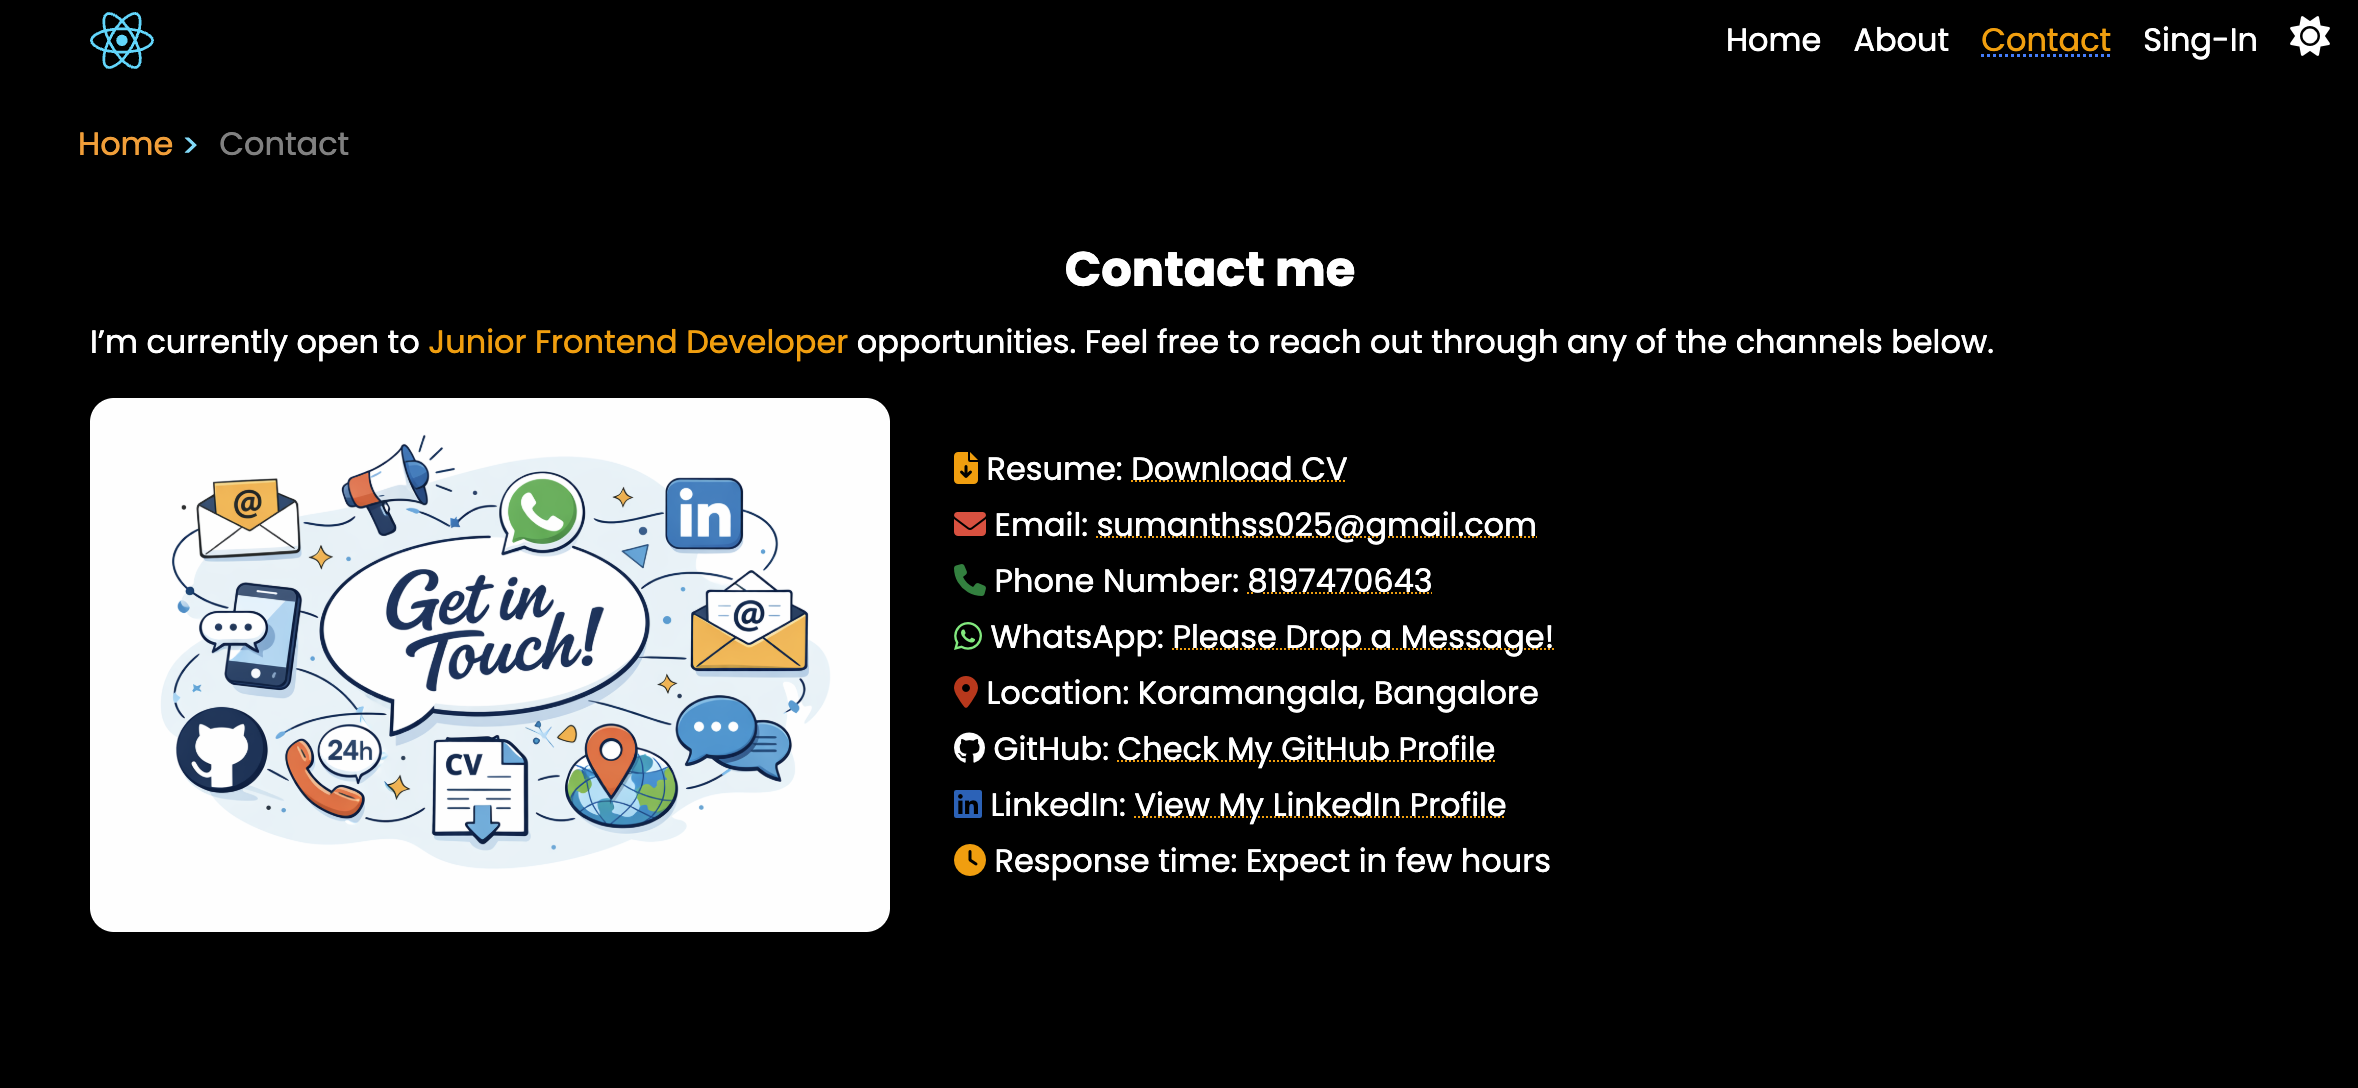
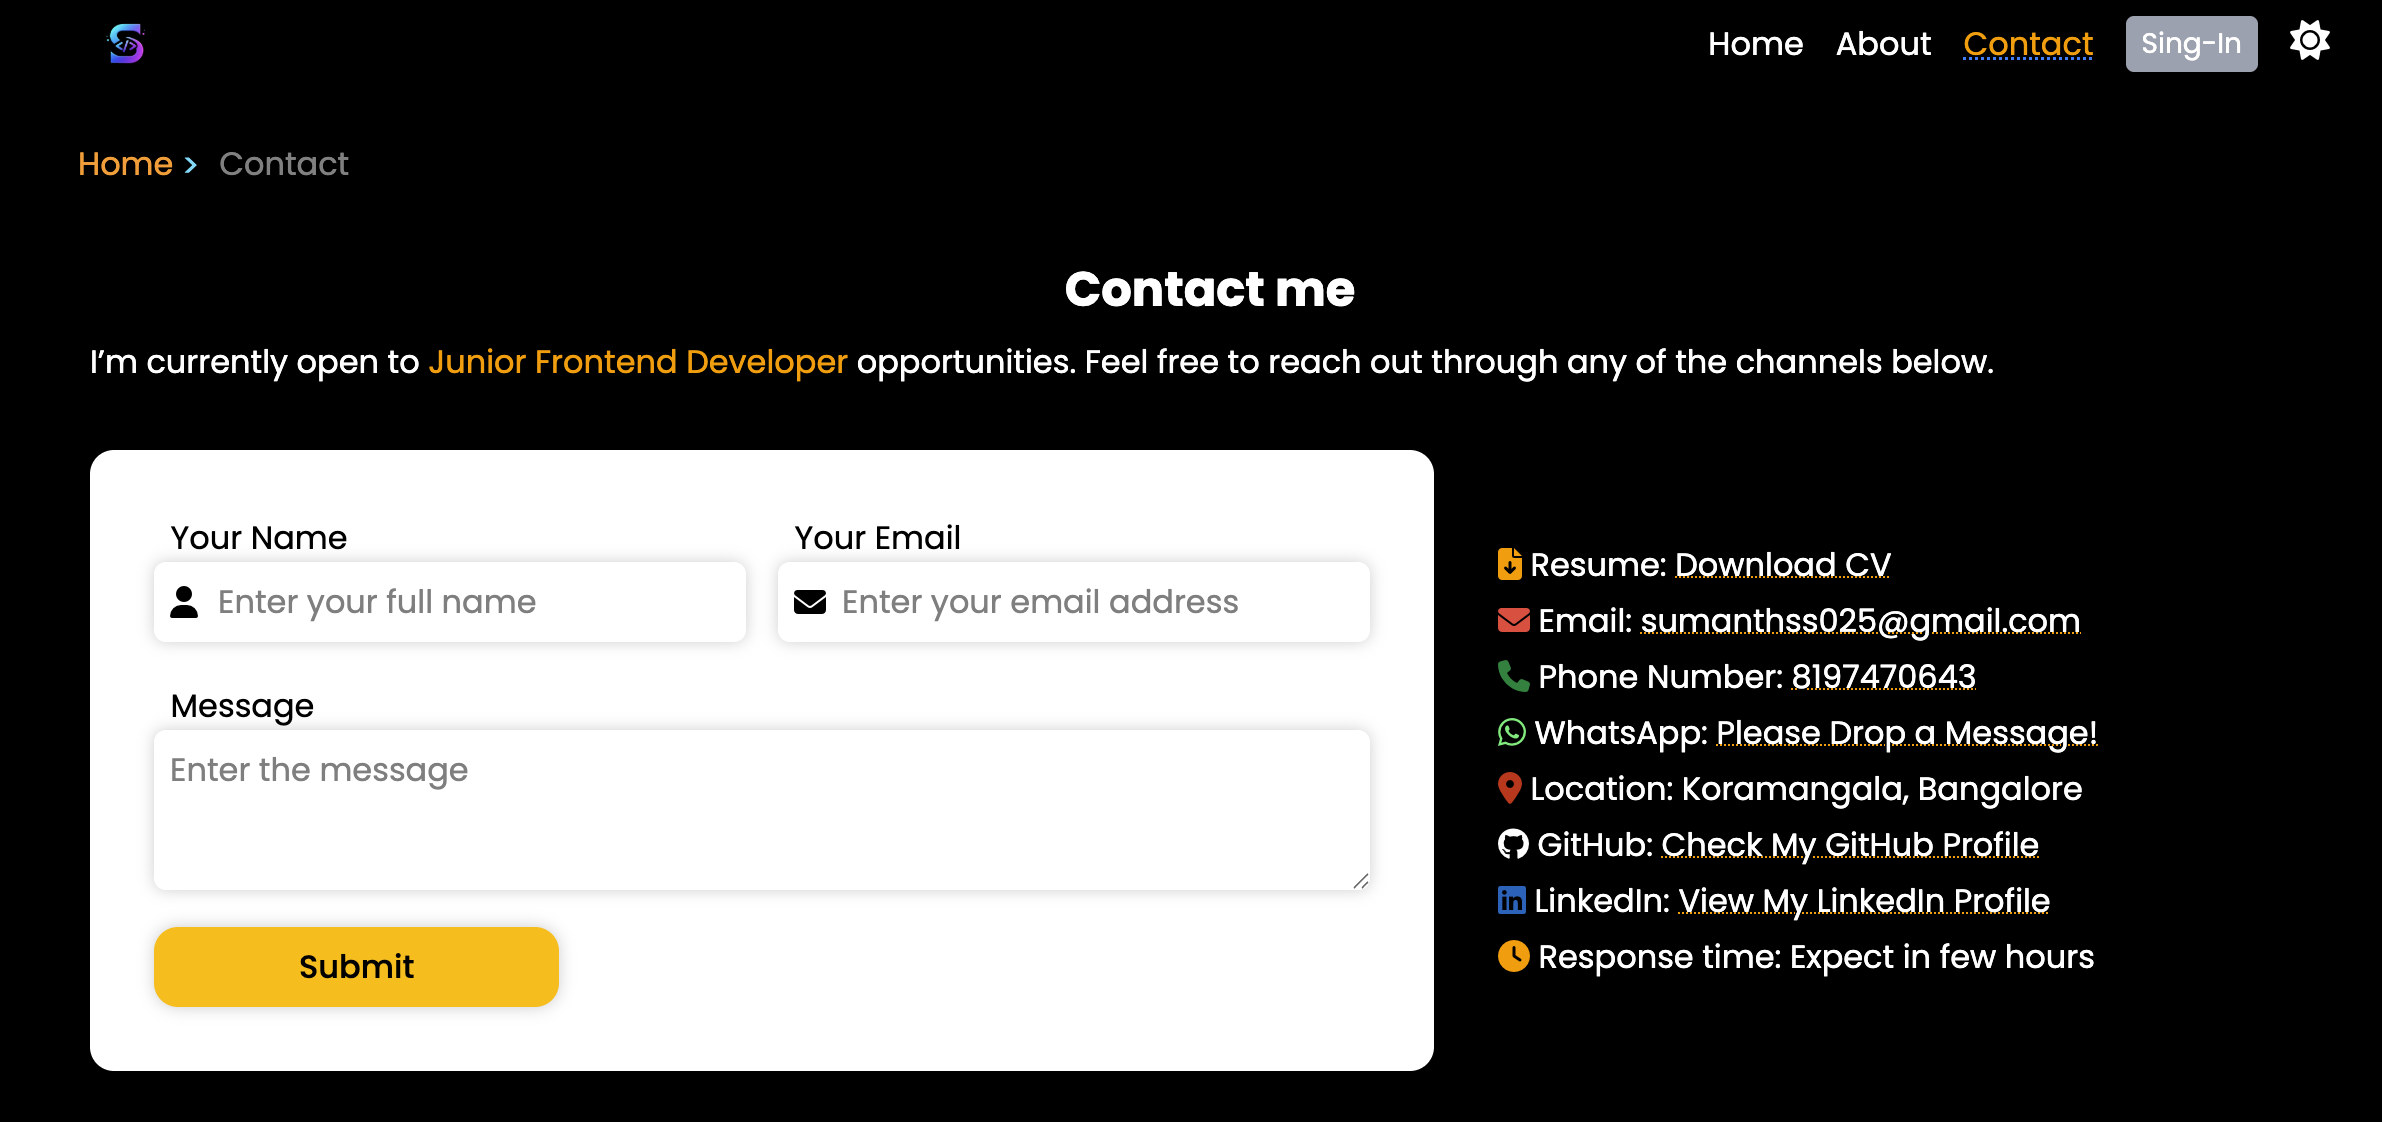
Updated OG tags and rating component

diff --git a/index.html b/index.html
@@ -18,30 +18,18 @@
       content="Frontend Developer specializing in React & JavaScript. I build scalable web applications with a strong focus on SEO optimization, and user experience."
     />
     <link rel="canonical" href="https://sumanth-s-s-portfolio.netlify.app/" />
-    <meta
-      property="og:description"
-      content="Frontend Developer specializing in React & JavaScript. I build scalable web applications with a strong focus on SEO optimization, and user experience."
-    />
-    <meta property="og:url" content="https://sumanth-s-s-portfolio.netlify.app/" />
-    <meta property="og:type" content="website" />
-    <meta property="og:site_name" content="Sumanth SS Portfolio: React.js and JavaScript" />
-    <meta property="og:locale" content="en-IN" />
-    <meta
-      property="og:image"
-      content="/src/assets/hero-image.png"
-    />
-    <meta property="og:image:width" content="640 " />
-    <meta property="og:image:height" content="640" />
-    <meta name="twitter:card" content="summary_large_image" />
-    <meta name="twitter:title" content="Sumanth SS Portfolio: React.js and JavaScript" />
-    <meta
-      name="twitter:description"
-      content="Frontend Developer specializing in React & JavaScript. I build scalable web applications with a strong focus on SEO optimization, and user experience."
-    />
-    <meta
-      name="twitter:image"
-      content="/src/assets/hero-image.png"
-    />
+   <meta property="og:url" content="https://sumanth-s-s-portfolio.netlify.app/">
+<meta property="og:type" content="website">
+<meta property="og:title" content="Sumanth SS Portfolio: React.js and JavaScript">
+<meta property="og:description" content="Frontend Developer specializing in React & JavaScript. I build scalable web applications with a strong focus on SEO optimization, and user experience.">
+<meta property="og:image" content="/assets/hero-section-image.png">
+
+<meta name="twitter:card" content="summary_large_image">
+<meta property="twitter:domain" content="sumanth-s-s-portfolio.netlify.app">
+<meta property="twitter:url" content="https://sumanth-s-s-portfolio.netlify.app/">
+<meta name="twitter:title" content="Sumanth SS Portfolio: React.js and JavaScript">
+<meta name="twitter:description" content="Frontend Developer specializing in React & JavaScript. I build scalable web applications with a strong focus on SEO optimization, and user experience.">
+<meta name="twitter:image" content="/assets/hero-section-image.png">
   </head>
   <body>
     <div id="root"></div>

diff --git a/src/components/Accordion.jsx b/src/components/Accordion.jsx
@@ -2,23 +2,12 @@ import React, { useState } from "react";
 import { useTheme } from "../hooks/useTheme";
 import { useOutletContext } from "react-router-dom";
 
-export default function Accordion({ faqHeading, children }) {
+export default function Accordion({ children }) {
   // const [accordion, isOpenAccordion] = useState(false)
   const [darkMode] = useTheme();
 
   return (
     <div className="w-full max-w-6xl py-4">
-      <h2 className="text-2xl font-bold text-center py-4">{faqHeading}</h2>
-      {/* <div className={`rounded-lg my-4 p-4 relative  ${darkMode ? 'darkShadow' : "applyShadow"}`}>
-            <h3 onClick={() => {
-              isOpenAccordion(!accordion)
-            }} className={`hover:text-amber-500 text-lg flex justify-between items-center cursor-pointer transition-all duration-500 ease-in-out ${accordion ? 'text-amber-500' : ''}`}>{passQuestion} <i className={`fa-solid fa-angle-down transition duration-500 ease-in-out ${accordion ? 'transform rotate-180 text-amber-500': 'rotate-0'}`}></i></h3>
-            <div className={`transition-all duration-500 ease-in-out overflow-hidden ${
-            accordion ? "max-h-screen opacity-100" : "max-h-0 opacity-0"
-          }`}>
-              <p className={`text-sm`}>{passAnswer}</p>
-            </div>
-        </div> */}
       {children}
     </div>
   );

diff --git a/src/components/ratingElement/RatingComponent.jsx b/src/components/ratingElement/RatingComponent.jsx
@@ -3,8 +3,8 @@ import React, { useState } from 'react'
 const RatingComponent = () => {
     let starCounts = 5
     const [hoverValue, setHoverValue] = useState(0)
-    const [clickValue, setClickValue] = useState(0)
-    const [thanksMsg, setThanksMsg] = useState(false)
+    const [clickValue, setClickValue] = useState(localStorage.getItem("starCount")|| 0)
+
   return (
     <div className='text-center mb-15'>
         <p className='text-lg font-semi-bold'>Please Take a Moment to Rate my Work</p>
@@ -16,7 +16,7 @@ const RatingComponent = () => {
                 }}
                 onClick={() => {
                     setClickValue(index + 1)
-                    setThanksMsg(true)
+                    localStorage.setItem("starCount", index + 1)
                 }}
                  onMouseLeave={() => {
                     setHoverValue(0)
@@ -25,7 +25,7 @@ const RatingComponent = () => {
             })
         }
         {
-          thanksMsg &&  <p>Thank you for Giving us a {clickValue} out of {starCounts} Rating <i className="fa-solid fa-handshake text-amber-400"></i></p>
+          clickValue > 0 &&  <p>Thank you for Giving us a {clickValue} out of {starCounts} Rating <i className="fa-solid fa-handshake text-amber-400"></i></p>
         }
     </div>
   )

diff --git a/src/components/ImageComponent.jsx b/src/components/ImageComponent.jsx
@@ -10,7 +10,7 @@ export default function ImageComponent({source,meaning}) {
     <div>
         <img src={source} alt={meaning} loading='lazy' onLoad={() => {
             setIsLoaded(true) 
-        }} className={`block w-full max-w-2xl mx-auto ${isLoaded ? 'transition duration-1000 ease-in-out opacity-100 blur-0': 'bg-gray-200 opacity-0 blur-sm'}`}/>
+        }} className={`block w-full max-w-lg mx-auto ${isLoaded ? 'transition duration-1000 ease-in-out opacity-100 blur-0': 'bg-gray-200 opacity-0 blur-sm'}`}/>
     </div>
   )
 }

diff --git a/src/projects/single-page-agency-web/README.md b/src/projects/single-page-agency-web/README.md
@@ -1,0 +1,73 @@
+# 🌐 Modern UI/UX Single Page Website
+
+![React](https://img.shields.io/badge/React-18-blue?logo=react)
+![Status](https://img.shields.io/badge/Status-Completed-brightgreen)
+
+This is a single-page modern UI/UX agency website built to showcase the agency’s offerings, including features, pricing, and testimonials.
+
+The project focuses on delivering a clean, responsive, and visually appealing user experience, making it ideal for demonstrating front-end development skills and UI/UX design principles.
+
+---
+
+## ⚙ Tech Stack
+
+
+- **React** – Component-based UI development
+- **React Syntax Highlighter** – Displaying formatted code snippets dynamically
+- **Tailwind CSS** – Utility-first styling for modern UI design
+- **React Create Portal** – Handling modal rendering outside the DOM hierarchy
+
+
+---
+
+## ✨ Features
+
+- 🔄 **Dynamic Code Snippets Switching** – Users can switch between dummy code snippets on the webpage using state management and React Syntax Highlighter
+
+- 🎨 **Modern UI/UX Design** – Built with Tailwind CSS to ensure a sleek, responsive, and user-friendly interface
+
+- 💬 **Testimonials Section** – Showcases client feedback in an engaging layout
+
+- 💰 **Pricing Section** – Clearly structured pricing plans for better user understanding
+
+- 🧩 **Reusable Components** – Modular React components for scalability and maintainability.
+
+- 📱 **Responsive Design** – Fully responsive UI built using Tailwind CSS for all screen sizes.
+
+
+---
+
+## 🛠 Key Implementation Details
+ - Used React state management to dynamically update UI elements like code snippets
+ - Implemented React Syntax Highlighter for rendering formatted and readable code blocks
+ - Designed UI using Tailwind CSS utility classes for faster and consistent styling
+ - Leveraged React Portal for creating modals outside the root DOM node, improving accessibility and structure
+
+## 📸 Screenshots
+
+### 🏠 Home Section
+![Home](./assets/home.png)
+
+### ✨ Features Section
+![Features](./assets/features.png)
+
+### 💰 Pricing Section
+![Pricing](./assets/pricing.png)
+
+### 💬 Testimonials Section
+![Testimonials Page](./assets/testimonials.png)
+
+### 📲 Mobile View
+![Mobile](./assets/mobile-view.png)
+
+---
+
+## 📚 What I Learned
+
+- How to build a modern, responsive UI using Tailwind CSS
+- Practical usage of React Syntax Highlighter for dynamic content rendering
+- Managing UI state effectively in React
+- Implementing React Portals for modals and overlays
+- Improving UI/UX design thinking for real-world projects
+
+
